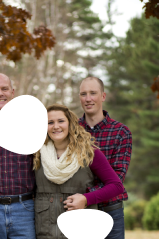
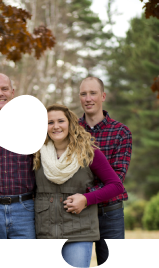
changed puzzle pieces and added puzzle forming function

diff --git a/src/views/Puzzle.vue b/src/views/Puzzle.vue
@@ -1,3 +1,69 @@
 <template>
-  <h1>Puzzle page</h1>
+  <div class="flex flex-col py-10 h-full w-full">
+    <h1 class="text-3xl font-medium mx-6">Form the puzzle</h1>
+    <p class="mx-6">Use all the pieces to complete the puzzle</p>
+    <div class="grow"></div>
+    <div class="relative border-4 mx-6">
+      <img class="w-full h-auto opacity-0" src="../assets/full.png" />
+      <img v-if="pieces[0]" class="absolute w-auto h-1/2 top-0 left-0" src="../assets/piece-1.png" />
+      <img v-if="pieces[1]" class="absolute w-1/2 h-auto top-0 right-0" src="../assets/piece-2.png" />
+      <img
+        v-if="pieces[2]"
+        class="absolute w-1/2 h-auto bottom-0 left-0"
+        src="../assets/piece-3.png"
+      />
+      <img
+        v-if="pieces[3]"
+        class="absolute w-auto h-1/2 bottom-0 right-0"
+        src="../assets/piece-4.png"
+      />
+    </div>
+    <div class="grow"></div>
+    <div class="flex space-x-4 overflow-x-scroll overflow-visible overflow-y-hidden px-6">
+      <img
+        v-if="!pieces[0]"
+        @click="addToPuzzle(0)"
+        class="w-auto h-32"
+        src="../assets/piece-1.png"
+      />
+      <img
+        v-if="!pieces[1]"
+        @click="addToPuzzle(1)"
+        class="w-auto h-32"
+        src="../assets/piece-3.png"
+      />
+      <img
+        v-if="!pieces[2]"
+        @click="addToPuzzle(2)"
+        class="w-auto h-32"
+        src="../assets/piece-2.png"
+      />
+      <img
+        v-if="!pieces[3]"
+        @click="addToPuzzle(3)"
+        class="w-auto h-32"
+        src="../assets/piece-4.png"
+      />
+    </div>
+  </div>
 </template>
+
+<script>
+export default {
+  data() {
+    return {
+      pieces: [
+        false,
+        false,
+        false,
+        false
+      ]
+    }
+  },
+  methods: {
+    addToPuzzle(index) {
+      this.pieces[index] = true;
+    }
+  }
+}
+</script>

diff --git a/src/views/Camera.vue b/src/views/Camera.vue
@@ -2,8 +2,8 @@
   <div class="h-full w-full">
     <qrcode-stream @decode="onDecode" @init="onInit" />
     <div
-      class="absolute flex flex-col items-center right-6 bottom-6 p-2 rounded-xl"
-      :class="countPieces > 3 ? 'bg-[#6DE287]' : 'bg-white'"
+      class="absolute flex flex-col items-center right-6 bottom-6 p-2 rounded-xl border-b-4"
+      :class="countPieces > 3 ? 'bg-[#6DE287] border-b-[#69D981] text-white' : 'bg-white border-b-[#D3D3D3]'"
     >
       <img src="../assets/puzzle-icon.png" />
       <p class="text-xl font-medium">{{ countPieces }}/4</p>
